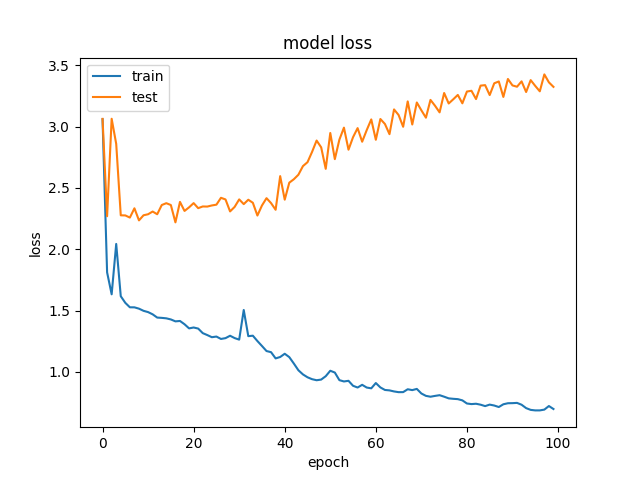
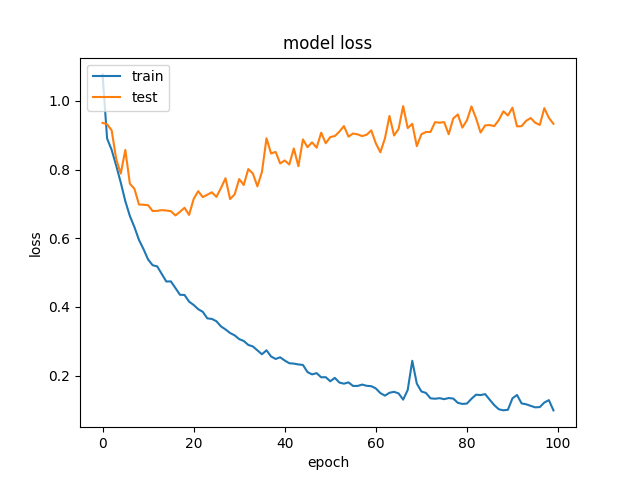
server config and readme install

diff --git a/src/chatbot/network/dto/model_params_dto.py b/src/chatbot/network/dto/model_params_dto.py
@@ -1,6 +1,6 @@
 class ModelParamsDTO:
     batch_size = 1
-    epochs = 10
+    epochs = 150
     validation_split = 0.25
     shuffle = False
     metrics = ['accuracy', 'Precision', 'Recall']

diff --git a/README.md b/README.md
@@ -22,12 +22,26 @@ pip install -U pip setuptools wheel
 pip install -U spacy
 python -m spacy download pt_core_news_lg
 pip install Pillow
-pip install uvicorn
 pip install wasabi
 pip install websockets
 pip install keras
 pip install fastapi
 pip install tensorflow
+```
+```bash
+pip install uvicorn
+OR
+pip install 'uvicorn[standard]'
+```
+
+## RUN
+Fit and Run on cli
+```bash
+python3 -m ./src/cli/chatbot_cli.py
+```
+Websocket
+```bash
+python3 -m uvicorn src.api.start:server
 ```
 
 ## Author
